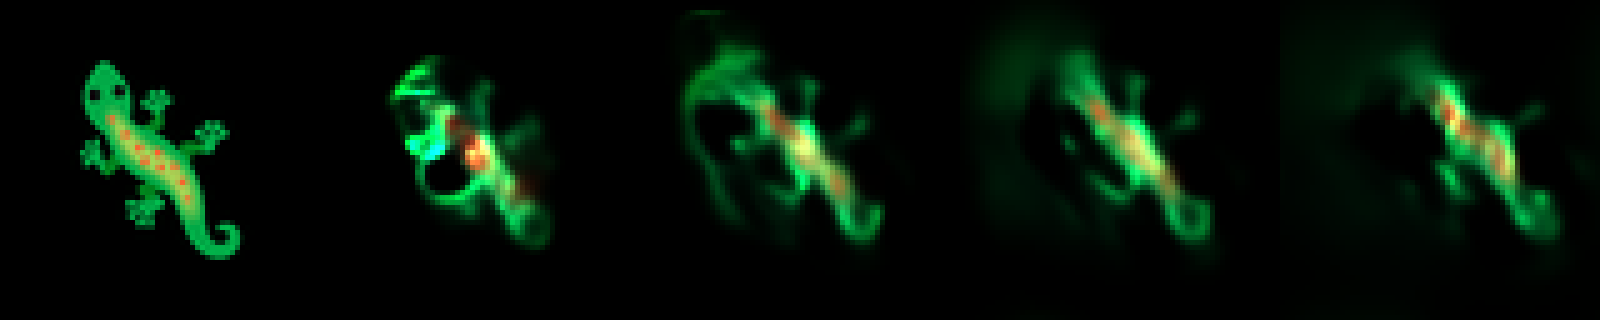
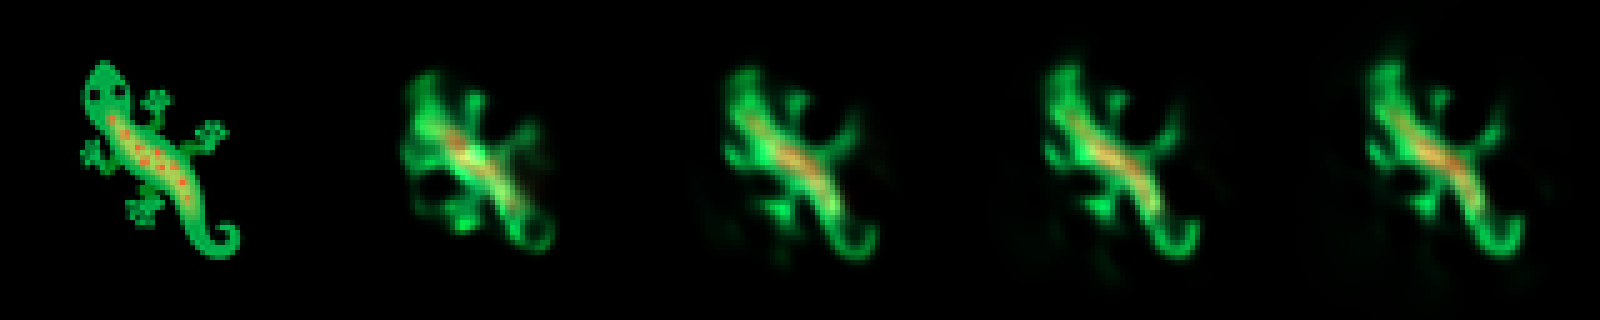
One copy of the simulation's drawing maths, and the blend as the default view
render.py now holds FS_DRAW's arithmetic -- the hue ring, the four blends, the
ground lift -- and the GIF maker, the strip builder and the page all draw
through it, so they cannot drift apart. Dominant is what the simulation itself
uses and it is what the page opens on: hue from whichever channel dominates a
cell, brightness from the mass there, with an ALL 12 / RGB toggle for the
three the loss actually sees.

Worth having as the default rather than a mode. The RGB view shows the lizard
and implies that is the whole state; blended, the animal turns out to sit
inside a much larger scaffold of hidden channels, orange and blue and magenta
structure sprawling well past its outline.

Rendered from the run under the corrected taper, which is better than what it
replaced: best 0.00257 at step 48 against 0.00299, and 0.00450 at step 160
against 0.00911.

Claude-Session: https://claude.ai/code/session_01WKrMnD7YksARi9mdYUD5iv

diff --git a/train/growth_strip.py b/train/growth_strip.py
@@ -23,26 +23,10 @@ from PIL import Image
 
 sys.path.insert(0, os.path.dirname(os.path.abspath(__file__)))
 import fieldlife as fl
+import render as rn
 import target as tgt
 
 HERE = os.path.dirname(os.path.abspath(__file__))
-
-
-def hue_ring(t):
-    """index.html's Spectrum palette, so a channel is the colour the sim gives it."""
-    h = ((t % 1) + 1) % 1 * 6
-    x = 1 - abs(h % 2 - 1)
-    return [[1, x, 0], [x, 1, 0], [0, 1, x], [0, x, 1], [x, 0, 1], [1, 0, x]][int(h) % 6]
-
-
-def palette(C):
-    return np.array([hue_ring(i / C) for i in range(C)])
-
-
-def shade(density, colour, expo):
-    """One channel drawn as the sim draws it: its hue, brightness from its mass."""
-    a = 1.0 - np.exp(-np.maximum(density, 0) * expo)
-    return a[..., None] * np.asarray(colour)[None, None, :]
 
 
 def rollout_frames(cfg, steps, kr=13):
@@ -93,18 +77,23 @@ def main():
     # Every channel, laid out as one image: a row per channel, a column per
     # kept step, each drawn in the hue index.html gives it. One fetch, and a
     # canvas can cut any (channel, step) cell out of it.
-    pal = palette(C)
+    pal = rn.palette(C)
     grid = np.concatenate([
-        np.concatenate([shade(chans[i][c], pal[c], a.expo) for i in keep], axis=1)
+        np.concatenate([rn.channel(chans[i][c], pal[c], a.expo) for i in keep], axis=1)
         for c in range(C)], axis=0)                 # (C*N, len(keep)*N, 3)
 
     strip = np.concatenate(frames, axis=1)          # (N, N*len(keep), 3)
+    # and the same rollout as the simulation itself draws it: every channel,
+    # hue from whichever dominates, brightness from the total mass present.
+    comp = np.concatenate([rn.blend(chans[i], pal, a.expo, "dominant") for i in keep],
+                          axis=1)
     data = {
         "run": a.run, "N": N, "C": C, "steps": a.steps,
         "kept": keep, "expo": a.expo,
         "palette": [[round(v, 3) for v in c] for c in pal],
         "perMass": [permass[i] for i in keep],
         "channels": b64_png(grid),
+        "composite": b64_png(comp),
         "force": round(cfg["force"], 2), "beta": round(cfg["beta"], 3),
         "repel": round(cfg["repel"], 3),
         "lobes": len(cfg["kernels"][0]["terms"]),
